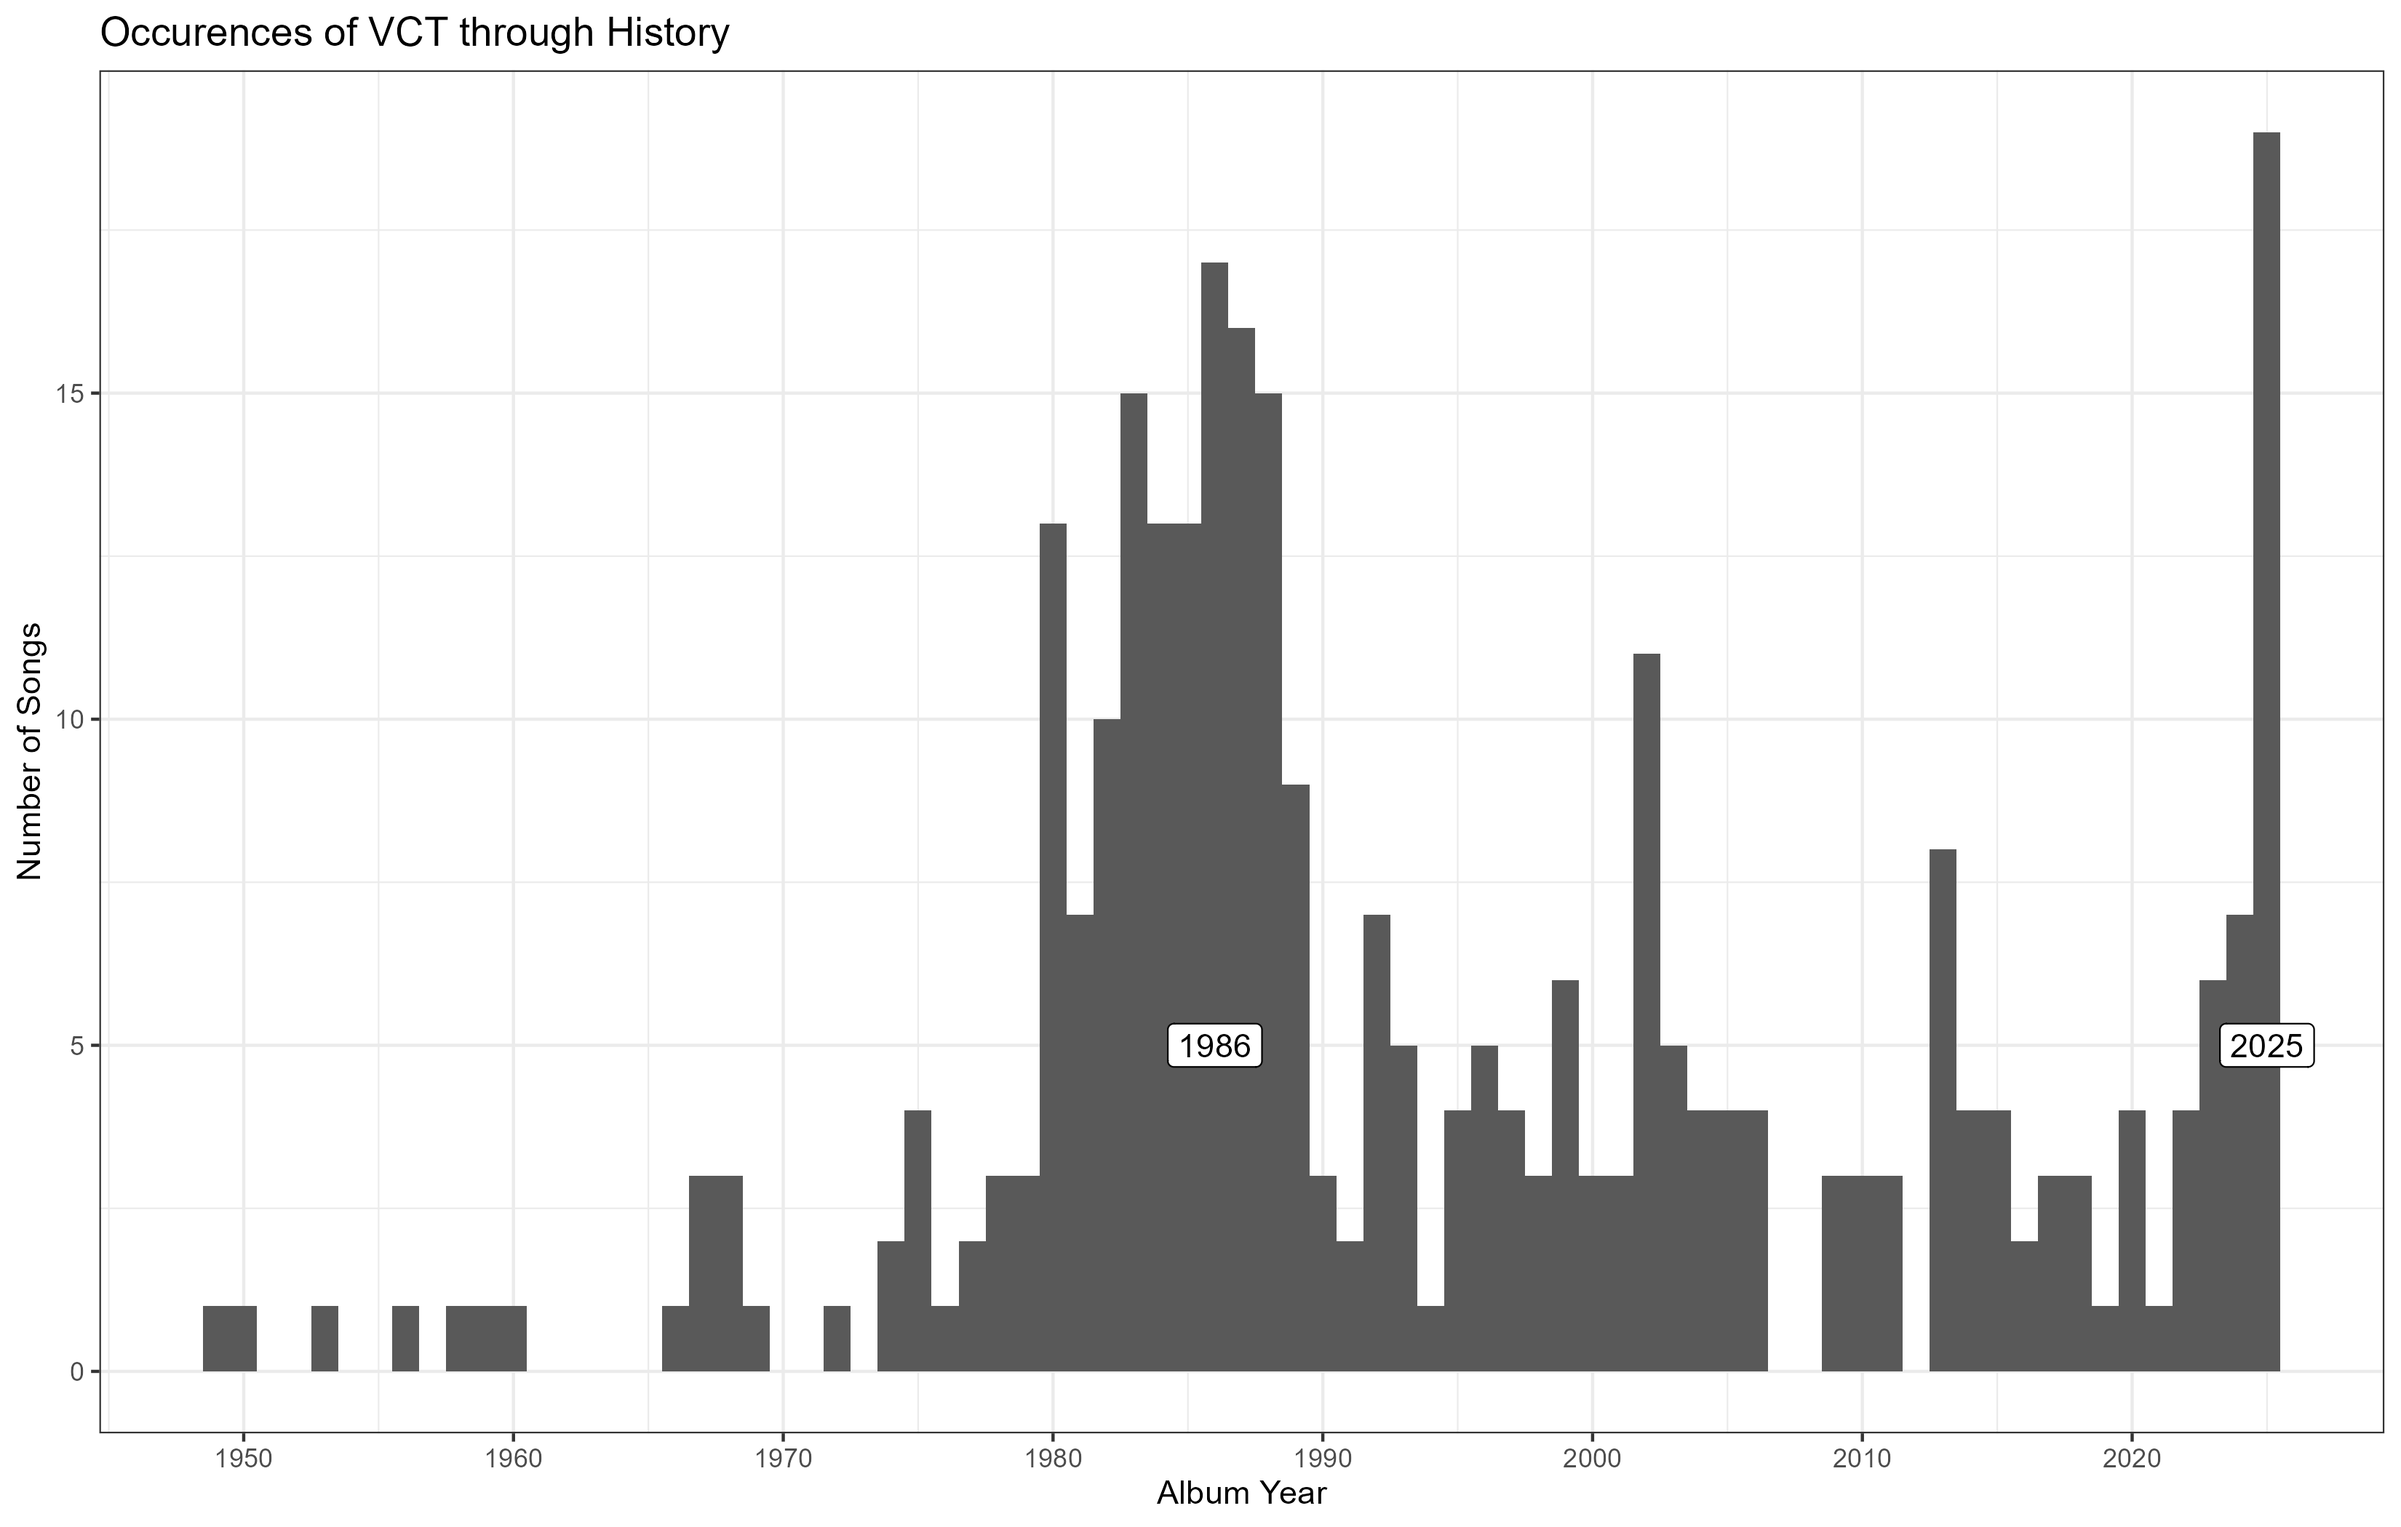
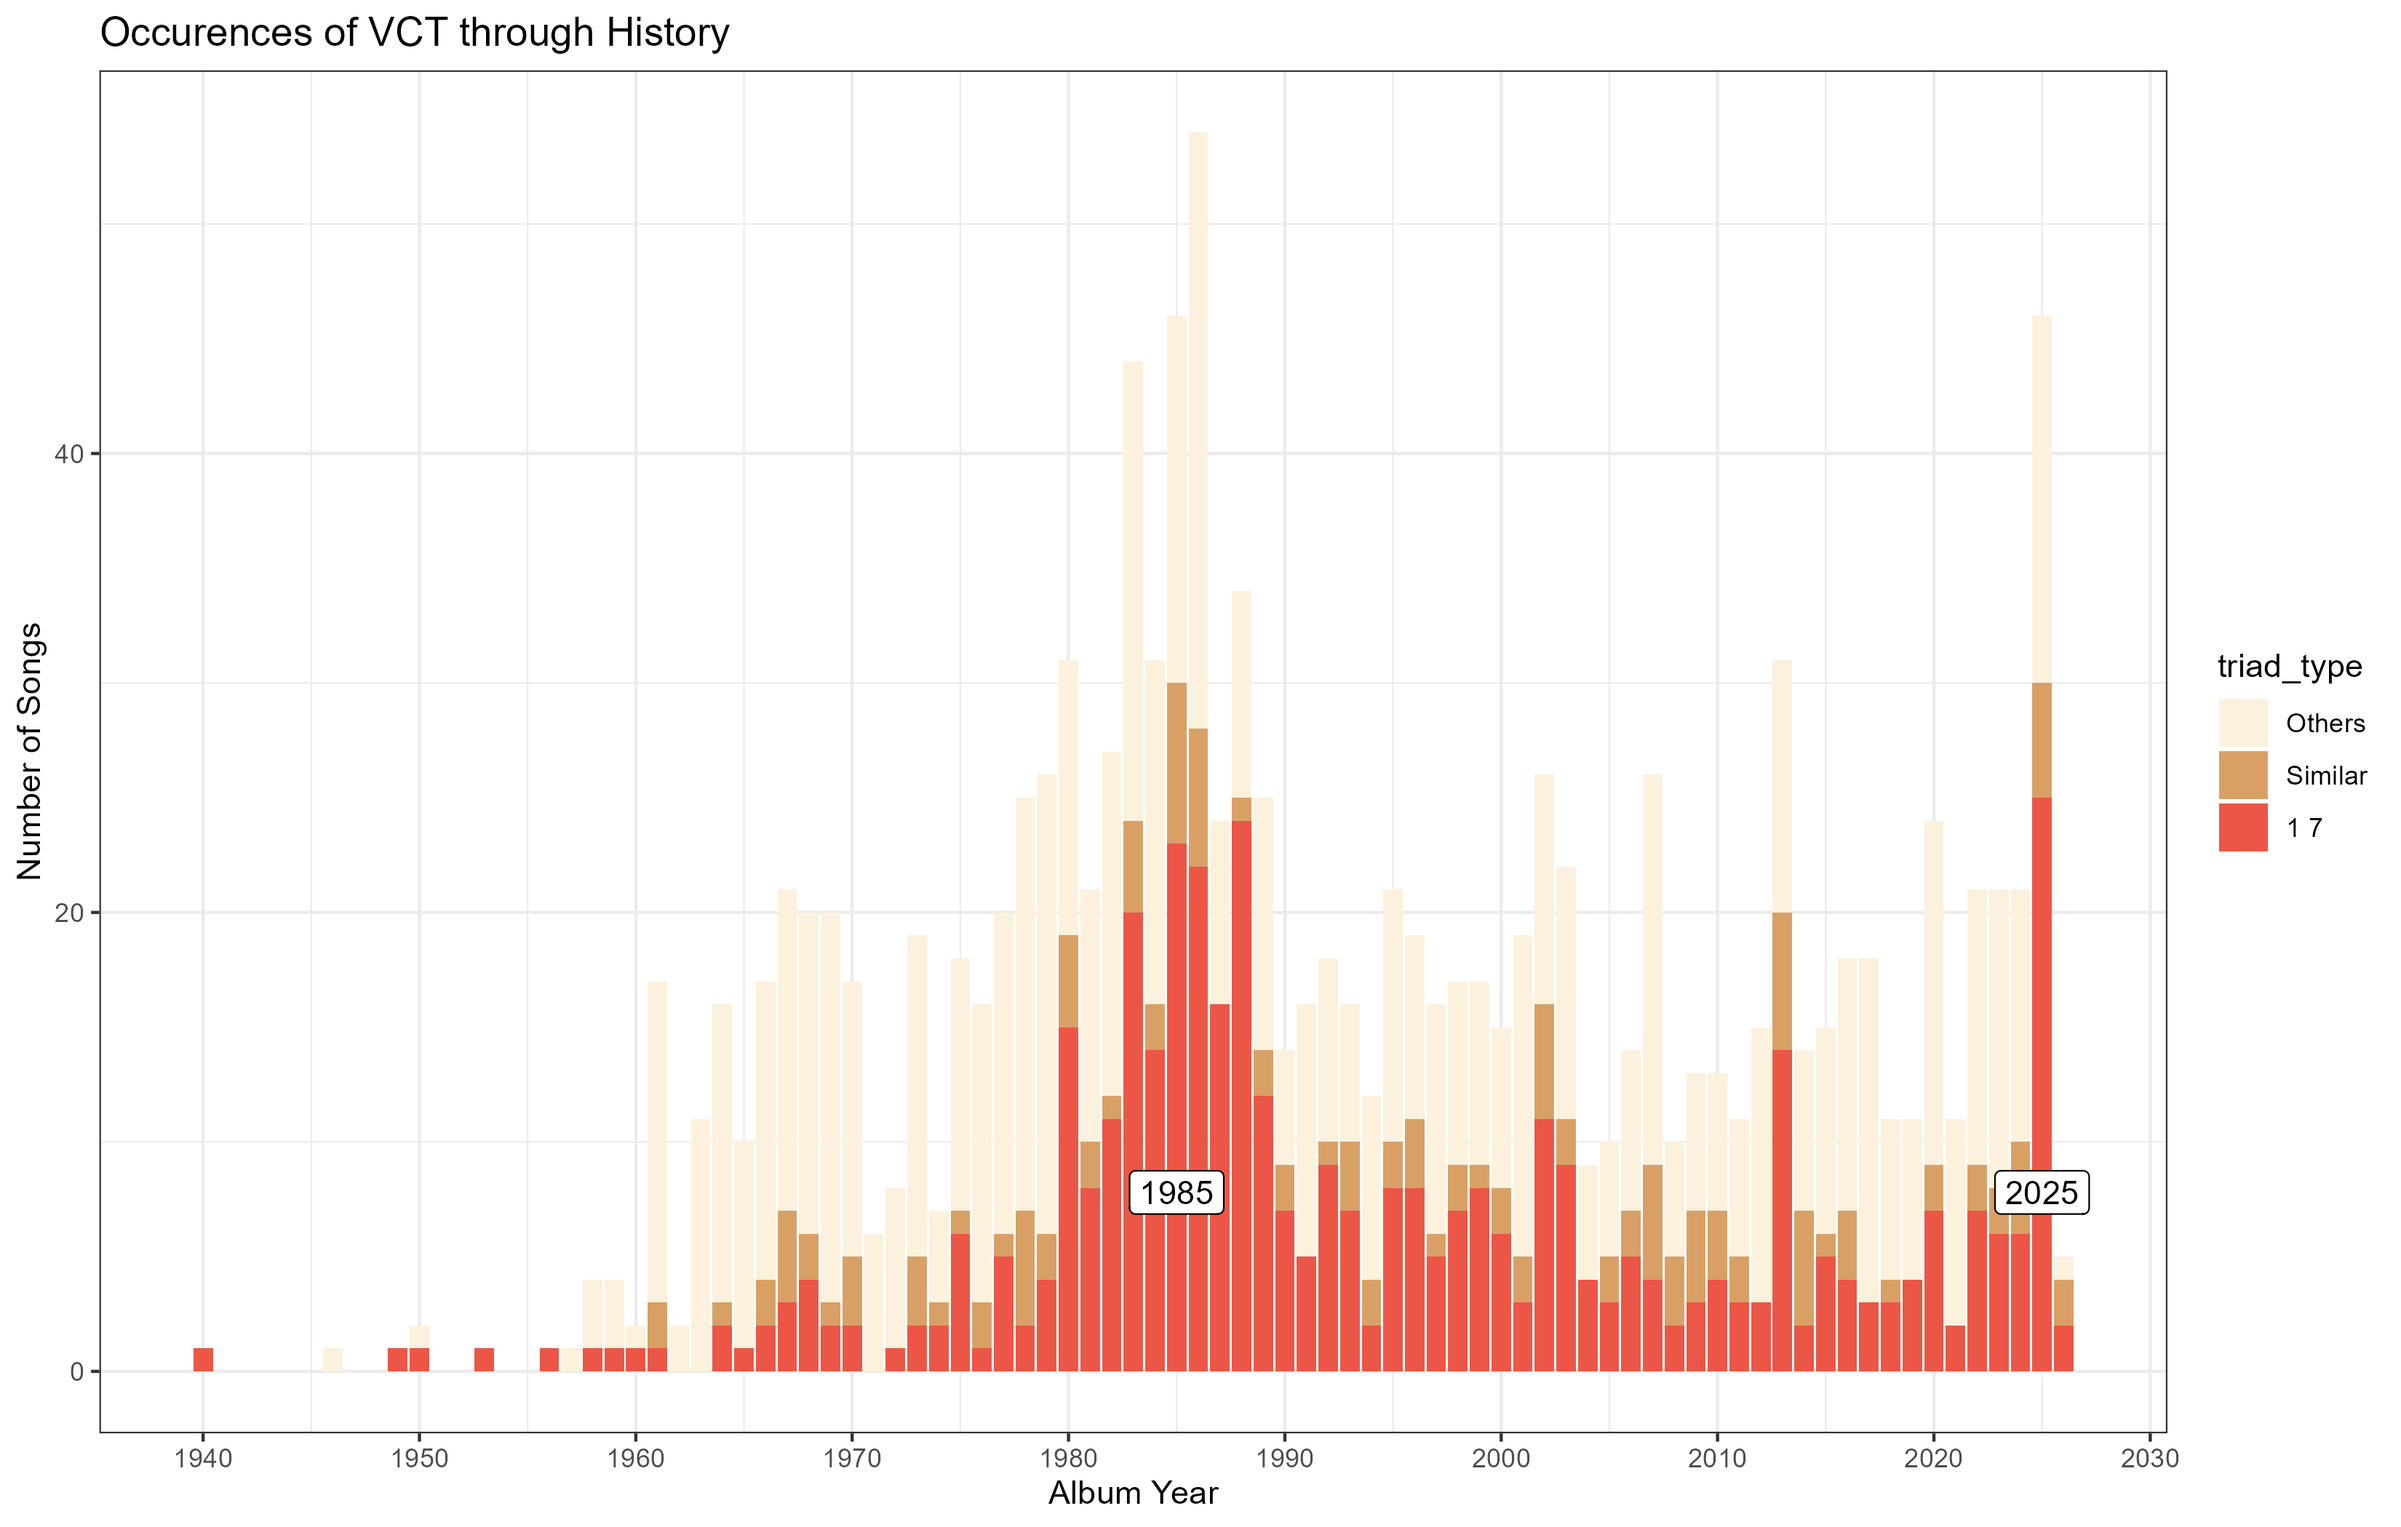
update README
- update README and figures
- update plot_tvc_histogram and scale_fill : add category "Similar"

diff --git a/README.md b/README.md
@@ -65,8 +65,19 @@ songs %>%
 
 ![](./vignettes/histogram-triad-vanessa-carlton.png)
 
-To make this graph, we used the playlist “Jus d’oreille \#16 - extended
-La Triade Vanessa Carlton”.
+The red histogram is based on the playlist [“Jus d’oreille \#16 -
+extended La Triade Vanessa
+Carlton”](https://open.spotify.com/playlist/1mqmeqSKJeXo6GjiMRfutj).
+
+Have you ever wondered if this triad has any competitors, and which ones
+are the most common?
+
+``` r
+songs %>%
+  plot_triad_coverage(weighted = FALSE)
+```
+
+![](./vignettes/raster-occurence-triads.png)
 
 ## Code of Conduct
 
